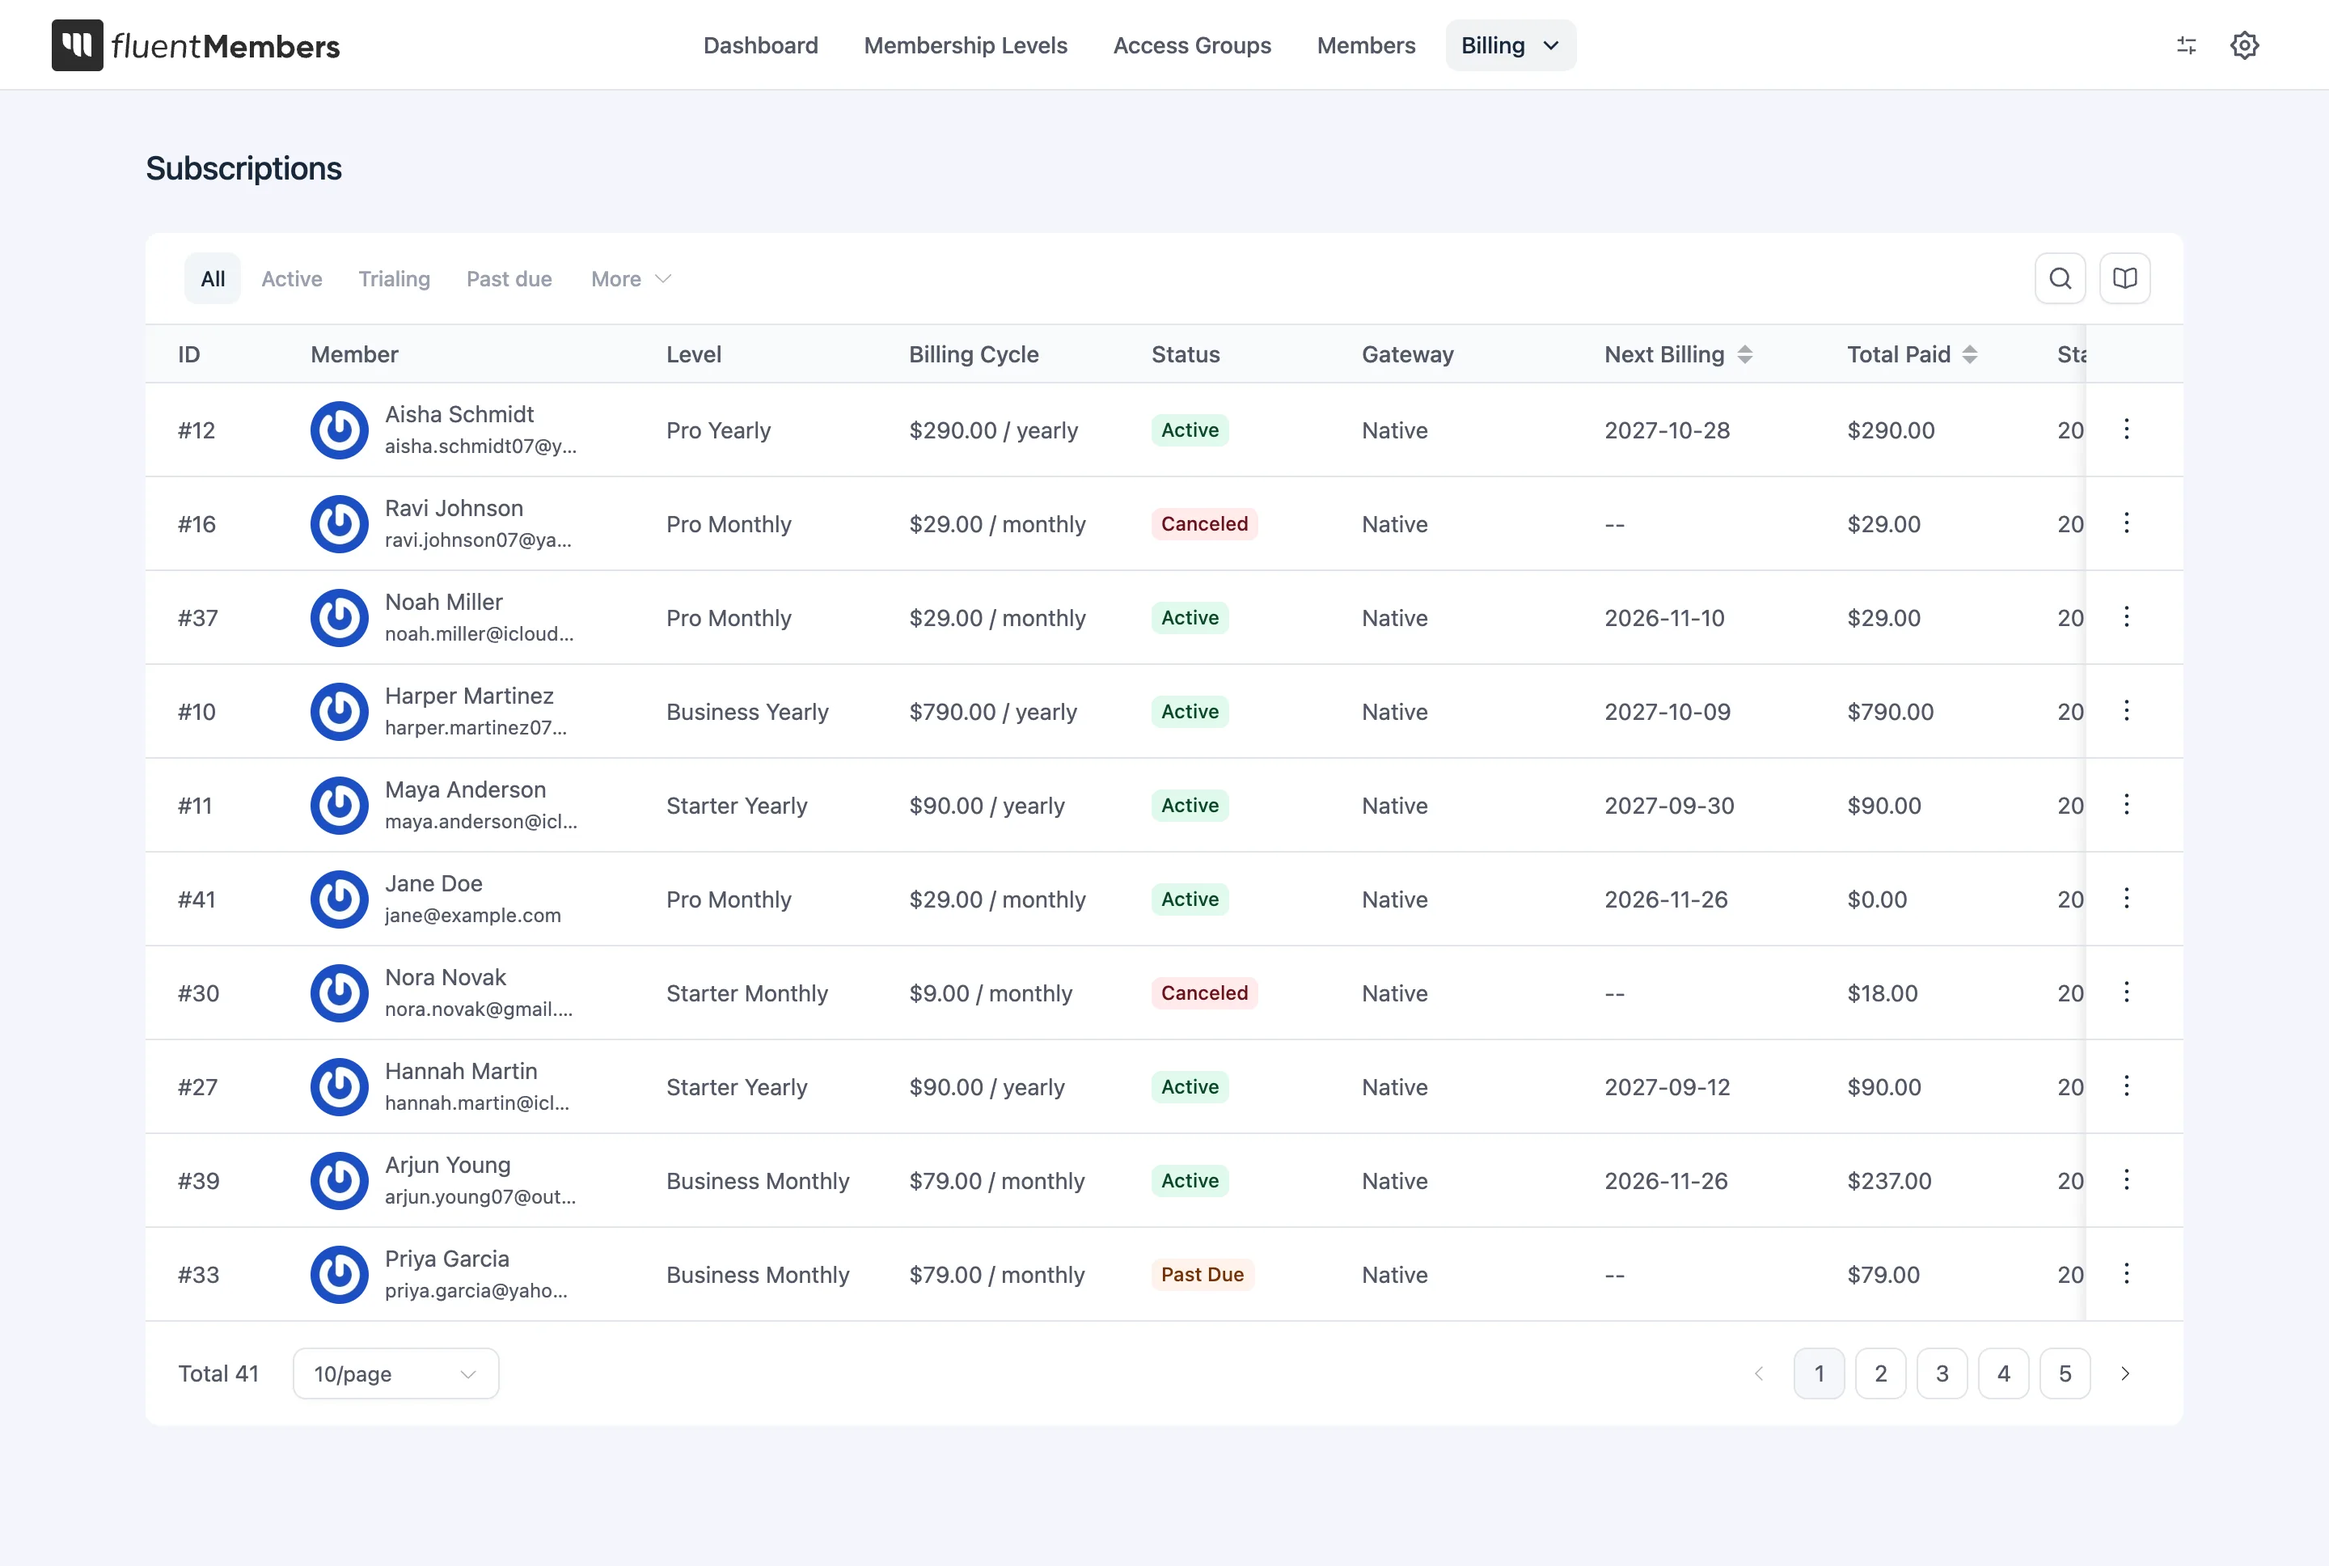
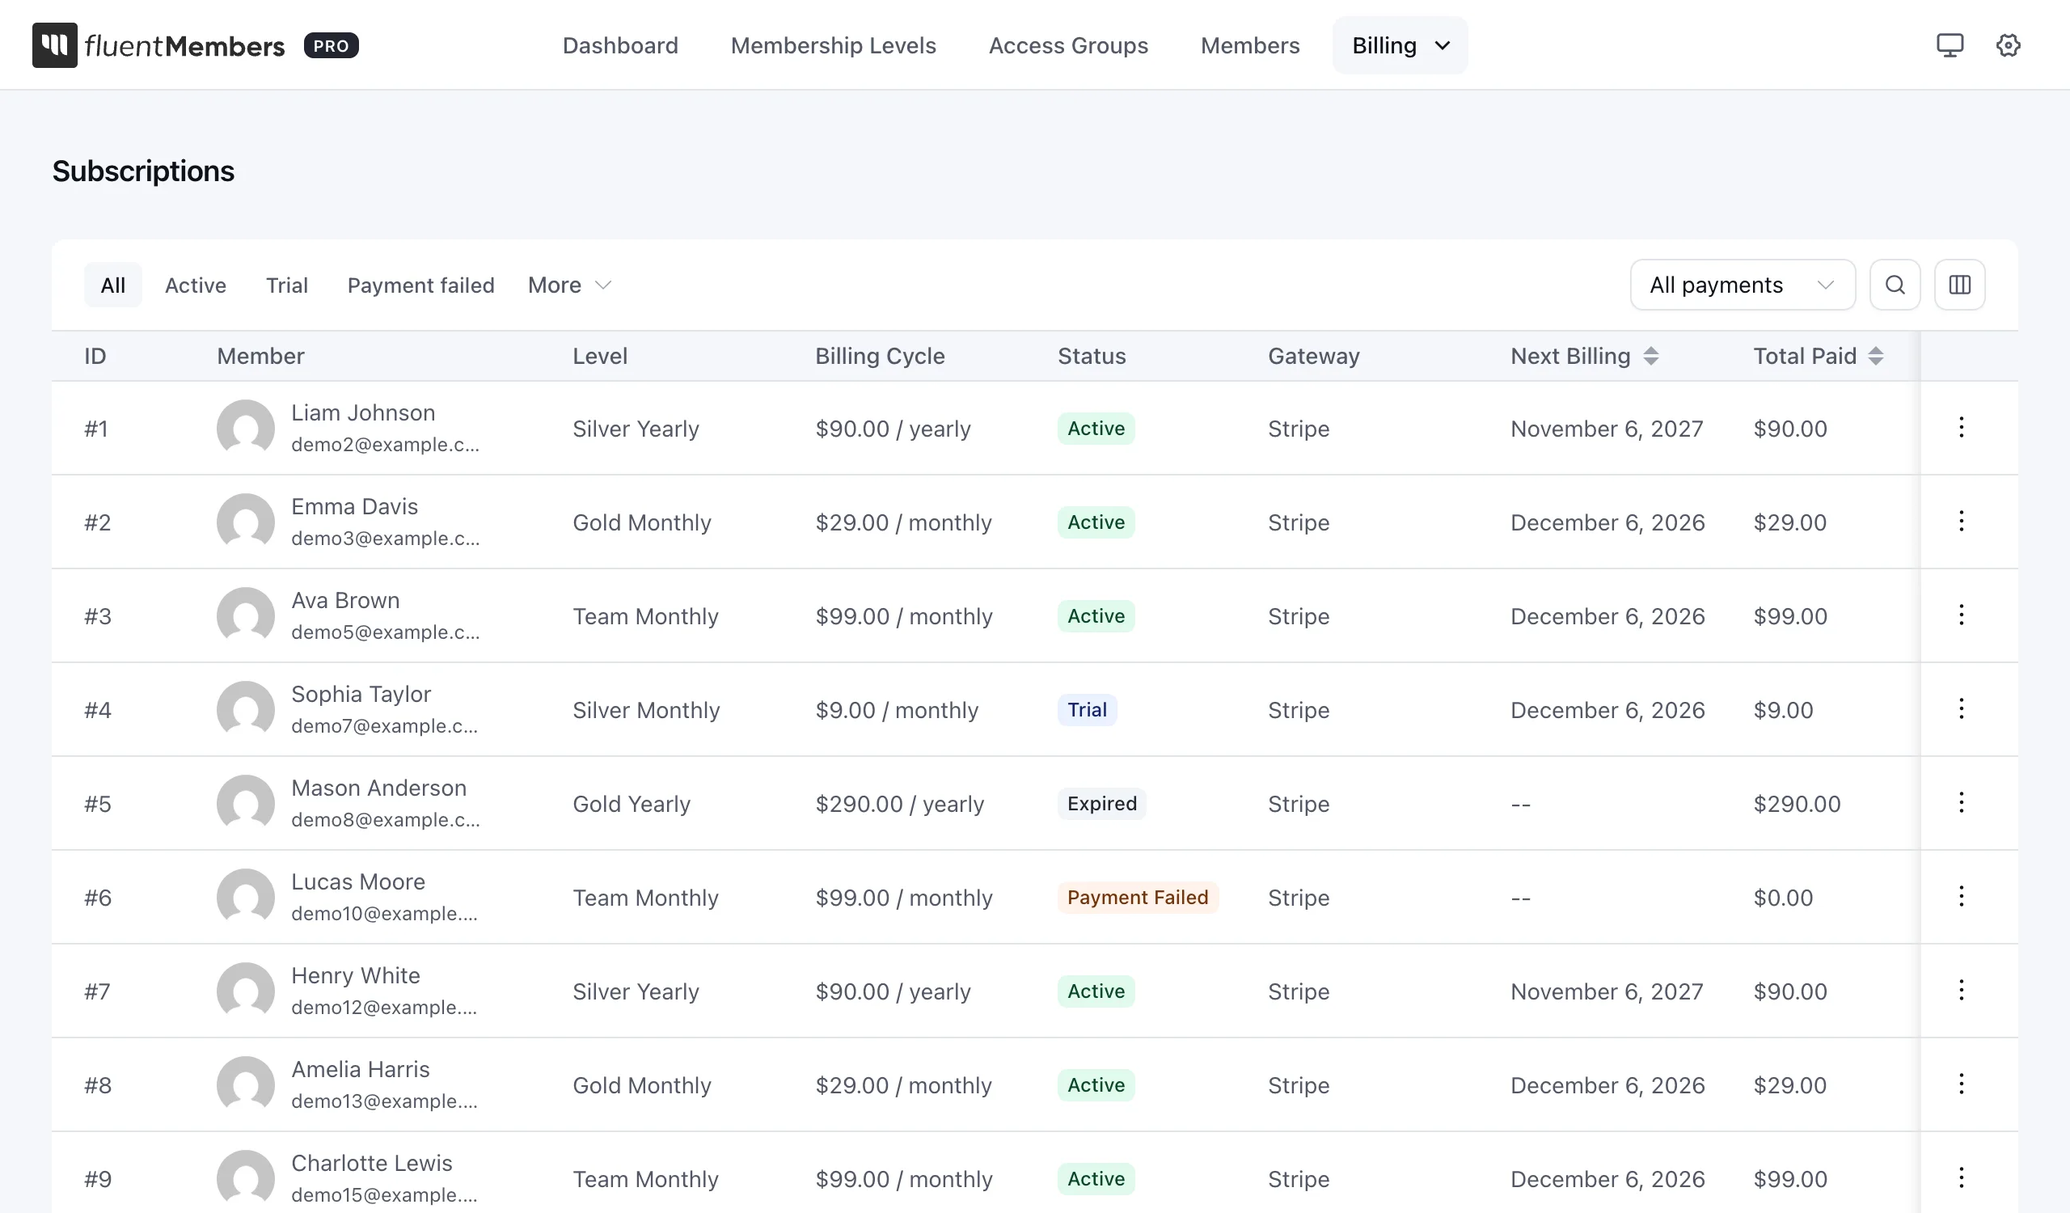
update subscription doc

diff --git a/docs/billing/subscriptions.md b/docs/billing/subscriptions.md
@@ -13,7 +13,9 @@ It includes subscriptions billed through Stripe or PayPal, subscriptions importe
 
 Go to **Fluent Members → Billing → Subscriptions**.
 
-![Screenshot of the Subscriptions list with status tabs, member rows and pagination](/images/billing/subscriptions/subscriptions-list.webp)
+Above the table, the status tabs are **All**, **Active**, **Trial** and **Payment failed**, with **More** holding **Paused**, **Cancelled** and **Expired**. The **All payments** menu limits the list to **Live payments** or **Test payments**. The search and column icons sit beside it.
+
+![Screenshot of the Subscriptions list with status tabs, the All payments menu, member rows and pagination](/images/billing/subscriptions/subscriptions-list.webp)
 
 ## Columns
 
@@ -26,13 +28,13 @@ The table scrolls sideways when it does not fit your screen:
 | **Level** | The Membership Level the subscription is for. |
 | **Billing Cycle** | The recurring amount and interval. |
 | **Status** | The current status. See [Statuses](#statuses). |
-| **Gateway** | Where the billing runs or came from, such as Stripe, PayPal, MemberPress or FluentCart. |
+| **Gateway** | Where the billing runs or came from, such as Stripe, PayPal, Paid Memberships Pro, MemberPress or FluentCart. |
 | **Next Billing** | The date of the next charge, or `--` when none is scheduled. |
 | **Total Paid** | The total collected on this subscription. |
 | **Started** | The date the subscription was created. |
 | **Last Payment** | The date of the most recent payment. |
 
-Click a row to open the subscription. The three-dot menu on each row holds **View**, plus **Cancel Subscription** when the subscription can be cancelled here.
+Dates follow the date format set in **Settings → General** in WordPress. Click a row to open the subscription. The three-dot menu on each row holds **View**, plus **Cancel Subscription** when the subscription can be cancelled here.
 
 To change the columns, sort or search, see [Filter & Search](/docs/billing/filters-and-search).
 
@@ -42,20 +44,17 @@ A subscription shows one of these statuses:
 
 | Status | Meaning |
 |---|---|
-| **Pending** | Waiting on the gateway to confirm the subscription. |
-| **Incomplete** | The gateway reports the first payment as incomplete. |
-| **Trialing** | Inside a trial. |
+| **Awaiting payment** | Waiting on the gateway to confirm the subscription or its first payment. |
+| **Trial** | Inside a trial. |
 | **Active** | Billing normally. |
-| **Past Due** | A payment failed and is outstanding. |
+| **Payment Failed** | A payment failed and is outstanding, or the subscription is unpaid or failed. The member can update their payment method to restore access. |
 | **Paused** | Billing is paused at the gateway. The member can update their payment method to resume it. |
-| **Unpaid** | The gateway reports the subscription as unpaid. The member can update their payment method to restore access. |
-| **Canceled** | The subscription was cancelled. |
+| **Cancelled** | The subscription was cancelled. |
 | **Expired** | The subscription has ended. |
-| **Failed** | The subscription failed and has ended. |
 
 ## The subscription page
 
-Click a row to open it. The heading shows the record number and status, with **More Actions** on the right.
+The heading shows the record number and status, with **More Actions** on the right.
 
 ![Screenshot of a subscription page with Subscription Details, Transaction History, Activity, Member Information and Membership Information](/images/billing/subscriptions/subscriptions-detail.webp)
 
@@ -67,14 +66,15 @@ This panel holds the billing facts:
 - **Gateway Subscription ID:** the ID at Stripe or PayPal, or `--` if there is none.
 - **Membership Level**, **Billing Cycle**, **Payment Gateway**, **Next Billing Date** and **Start Date.**
 - **Card:** the card brand and last four digits, when a card is on file.
-- **Trial Ends**, **Canceled At** and **Ends At:** shown only when they apply.
+- **Trial Ends**, **Cancelled At** and **Ends At:** shown only when they apply.
 
 ### Transaction History
 
 This table lists the latest 100 transactions with their **Date**, **Type**, **Amount**, **Payment Method** and **Status**. The panel is hidden when there are none.
 
-- **Type** is **Charge**, **Renewal**, **Refund** or **Partial Refund**.
-- **Status** is **Succeeded**, **Pending**, **Failed**, **Refunded** or **Partially Refunded**.
+- **Type** is **Payment**, **Renewal**, **Refund** or **Partial refund**.
+- **Status** is **Paid**, **Pending**, **Failed**, **Refunded** or **Partially refunded**.
+- A **TEST** tag beside the amount marks a test-mode payment.
 
 A **Refund** column appears when a payment has to be refunded at the gateway instead of here. See [Refunds](/docs/billing/refunds).
 
@@ -84,7 +84,7 @@ This timeline lists events newest first: **Subscription created**, **Trial ended
 
 ### Member Information
 
-This panel shows the member's name and email, a **Wp User** link to their member page, and **Member Since**.
+This panel shows the member's name and email, a **WP User #** link to their member page, and **Member Since**.
 
 ### Membership Information
 
@@ -92,7 +92,7 @@ This panel shows the **Level**, its **Access Group** list, **Trial Ends** when i
 
 ## Actions
 
-Click **More Actions** to see what you can do with the subscription:
+Click **More Actions** to see what you can do with the subscription. The menu on this Stripe subscription holds both actions:
 
 ![Screenshot of the More Actions menu open on a subscription page](/images/billing/subscriptions/subscriptions-more-actions.webp)
 

diff --git a/docs/billing/index.md b/docs/billing/index.md
@@ -3,7 +3,7 @@ title: "Billing (Pro)"
 description: "Find every subscription and one-time membership on your site, with the payments, refunds and activity behind each one."
 ---
 
-# Billing 
+# Billing (Pro)
 
 The **Billing** (Pro) section is your central hub for tracking member payments. It organizes your financial records into recurring subscriptions and one-time memberships, with each record holding its own payment history, refunds, and activity logs. You can use this area to check on a payment, issue a refund, or cancel a subscription.
 
